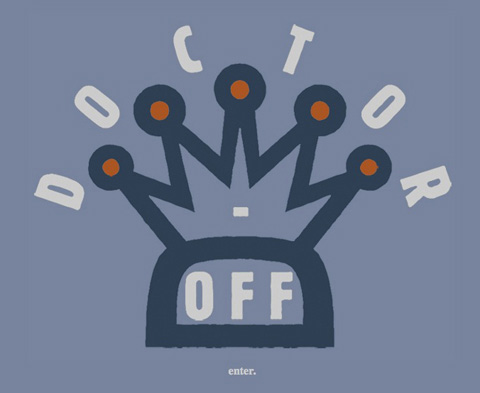
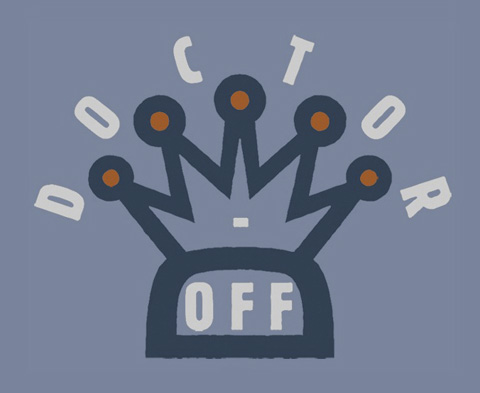
removed links from almanac and gotham in web section, updated doctoroff screenshot 1 to remove 'enter.' text

diff --git a/web.php b/web.php
@@ -142,9 +142,9 @@
               <a class="new-window webTitle" href="http://www.ahmadyarts.com">AhmadyArts, 2010</a>
               <br>&nbsp;
               <br>
-              <a class="new-window" href="http://www.ahmadyarts.com"><img src="/media/web/ahmady/ahmady5.jpg" alt="AhmadyArts Screenshot 5"></a>
-              <a class="new-window" href="http://www.ahmadyarts.com"><img src="/media/web/ahmady/ahmady3.jpg" alt="AhmadyArts Screenshot 3"></a>
-              <a class="new-window" href="http://www.ahmadyarts.com"><img src="/media/web/ahmady/ahmady2.jpg" alt="AhmadyArts Screenshot 2"></a>
+              <a class="new-window" href="http://www.ahmadyarts.com"><img src="/media/web/ahmady/ahmady5.jpg" alt="AhmadyArts Screenshot 1"></a>
+              <a class="new-window" href="http://www.ahmadyarts.com"><img src="/media/web/ahmady/ahmady3.jpg" alt="AhmadyArts Screenshot 2"></a>
+              <a class="new-window" href="http://www.ahmadyarts.com"><img src="/media/web/ahmady/ahmady2.jpg" alt="AhmadyArts Screenshot 3"></a>
               <a class="new-window" href="http://www.ahmadyarts.com"><img src="/media/web/ahmady/ahmady4.jpg" alt="AhmadyArts Screenshot 4"></a>
               <br>
               <br><a class="new-window" href="http://www.ahmadyarts.com">Visit the site</a>
@@ -162,34 +162,30 @@
             </div>
           <?php } else if ($piece == 'gotham') { ?>
           <div id="pieceContent">
-            <a class="new-window webTitle" href="http://www.gothamenergyapp.com">Gotham Energy App, 2010</a>
+            <h1>Gotham Energy App, 2010</h1>
             <br>&nbsp;
             <br>
-            <a class="new-window" href="http://www.gothamenergyapp.com"><img src="/media/web/gotham/gotham1.jpg" alt="Gotham Energy App"></a>
-            <a class="new-window" href="http://www.gothamenergyapp.com"><img src="/media/web/gotham/gotham2.jpg" alt="Gotham Energy App"></a>
-            <br>
-            <br><a class="new-window" href="http://www.gothamenergyapp.com">Visit the site</a>
+            <img src="/media/web/gotham/gotham2.jpg" alt="Gotham Energy App">
+            <img src="/media/web/gotham/gotham1.jpg" alt="Gotham Energy App">
           </div>
         <?php } else if ($piece == 'vegan') { ?>
           <div id="pieceContent">
             <a class="new-window webTitle" href="http://vegan.katherineerickson.com">What The Heck Do Vegans Eat?, 2010</a>
             <br>&nbsp;
             <br>
-            <a class="new-window" href="http://vegan.katherineerickson.com"><img src="/media/web/vegan/vegan1.jpg" alt="WTHDVE"></a>
-            <a class="new-window" href="http://vegan.katherineerickson.com"><img src="/media/web/vegan/vegan2.gif" alt="WTHDVE"></a>
-            <a class="new-window" href="http://vegan.katherineerickson.com"><img src="/media/web/vegan/vegan3.jpg" alt="WTHDVE"></a>
+            <a class="new-window" href="http://vegan.katherineerickson.com"><img src="/media/web/vegan/vegan1.jpg" alt="What The Heck Do Vegans Eat?"></a>
+            <a class="new-window" href="http://vegan.katherineerickson.com"><img src="/media/web/vegan/vegan2.gif" alt="What The Heck Do Vegans Eat?"></a>
+            <a class="new-window" href="http://vegan.katherineerickson.com"><img src="/media/web/vegan/vegan3.jpg" alt="What The Heck Do Vegans Eat?"></a>
             <br>
             <br><a class="new-window" href="http://vegan.katherineerickson.com">Visit the site</a>
           </div>
         <?php } else if ($piece == 'almanac') { ?>
           <div id="pieceContent">
-            <a class="new-window webTitle" href="http://www.thealmanac.org">The Almanac, 2009</a>
+            <h1>The Almanac, 2009</h1>
             <br>&nbsp;
             <br>
-            <a class="new-window" href="http://www.thealmanac.org"><img src="/media/web/almanac/almanac1.jpg" alt="Fox N Sox"></a>
-            <a class="new-window" href="http://www.thealmanac.org"><img src="/media/web/almanac/almanac2.jpg" alt="Fox N Sox"></a>
-            <br>
-            <br><a class="new-window" href="http://www.thealmanac.org">Visit the site</a>
+            <img src="/media/web/almanac/almanac1.jpg" alt="The Almanac">
+            <img src="/media/web/almanac/almanac2.jpg" alt="The Almanac">
           </div>
         <?php } elseif ($piece == 'foxNSox') { ?>
           <div id="pieceContent">
@@ -220,8 +216,6 @@
               <br>
               <img class="new-window" src="/media/web/doctoroff/doctoroff1.jpg" alt="Julia Doctoroff">
               <img class="new-window" src="/media/web/doctoroff/doctoroff2.jpg" alt="Julia Doctoroff">
-              <br>
-              <br>juliadoctoroff.com is temporarily offline.
             </div>
         <?php } elseif ($piece == 'vogl') { ?>
           <div id="pieceContent">
